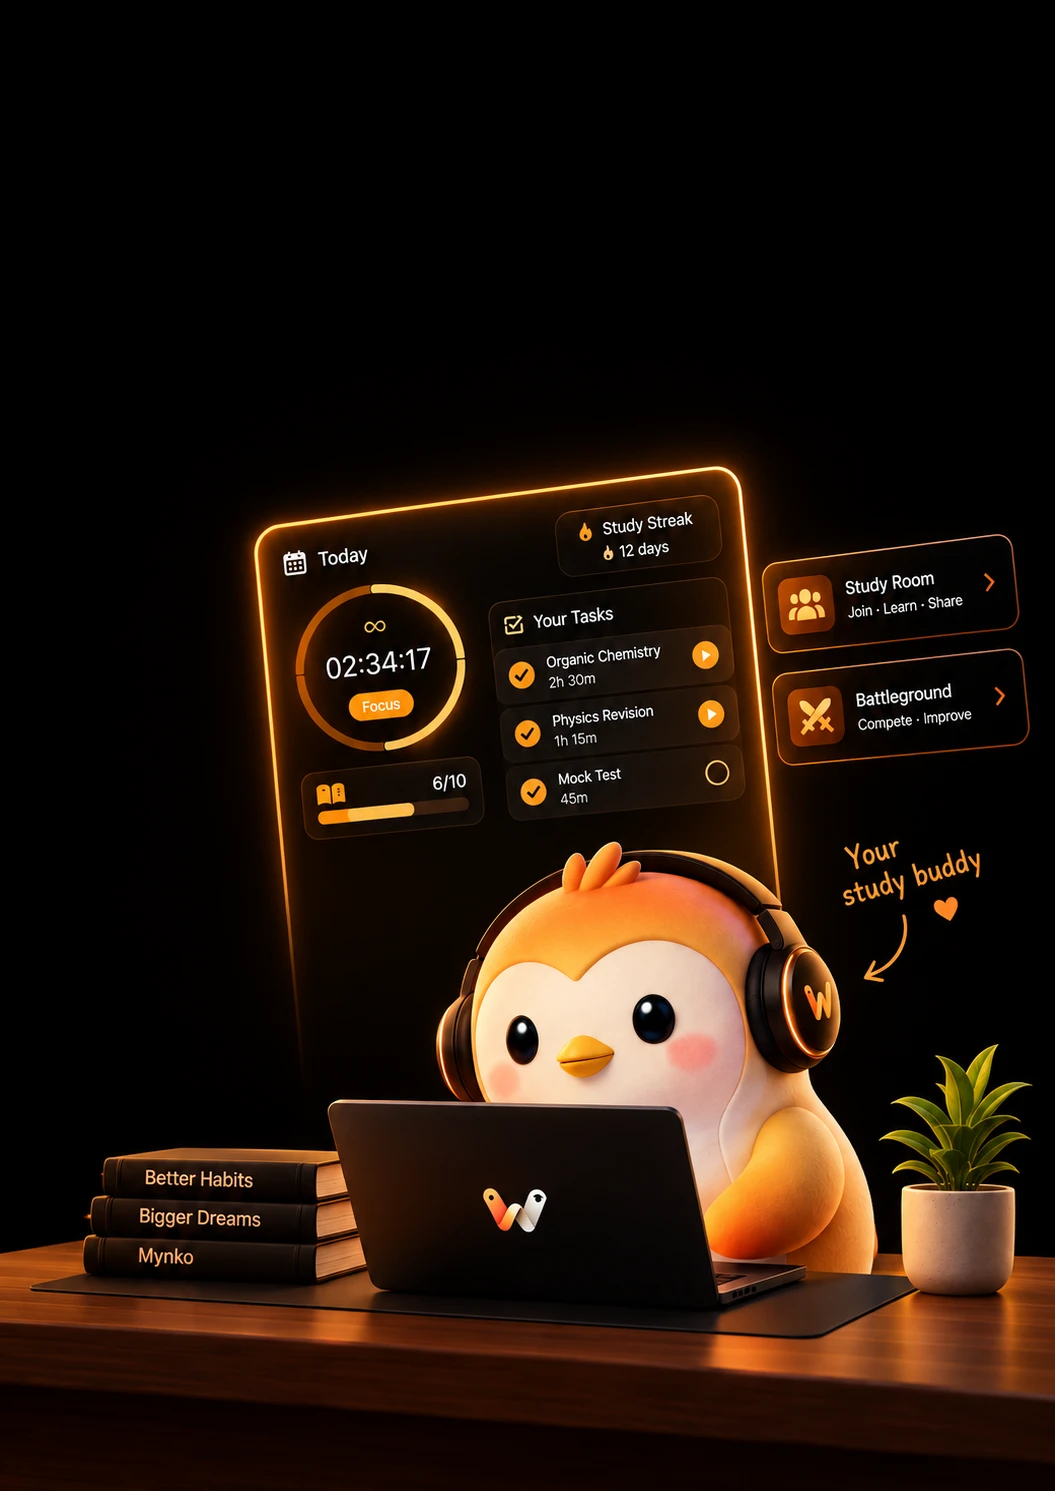
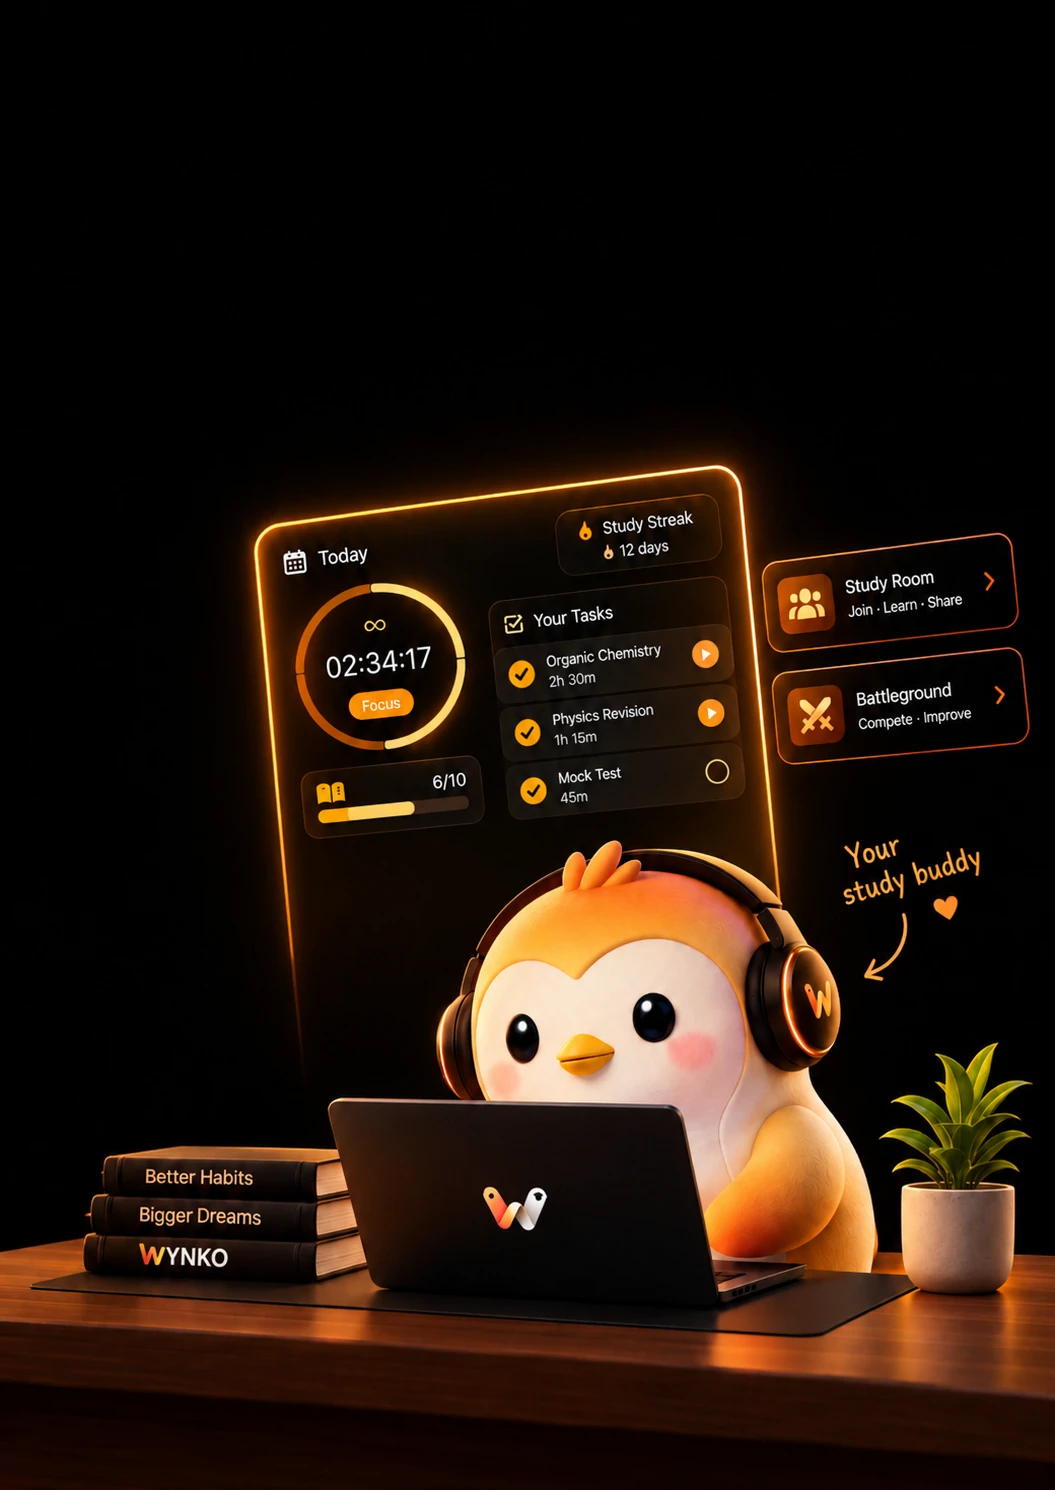
Hero: update study buddy art (WYNKO on the book spine)
Claude-Session: https://claude.ai/code/session_017u16HEoejSvi124fN81LSV

diff --git a/product.html b/product.html
@@ -598,7 +598,7 @@ footer{ border-top:1px solid var(--border); padding:60px 0 40px; background:rgba
     </div>
 
     <div class="hero-visual" id="emulator">
-      <img src="assets/hero/wynko-hero-study-buddy.webp" width="1055" height="1491" fetchpriority="high"
+      <img src="assets/hero/wynko-hero-study-buddy.webp" width="1055" height="1490" fetchpriority="high"
            alt="Wynky, the Wynko study buddy, at a laptop beside the Today dashboard: focus timer, study streak, tasks, Study Room and Battleground" />
     </div>
   </div>
